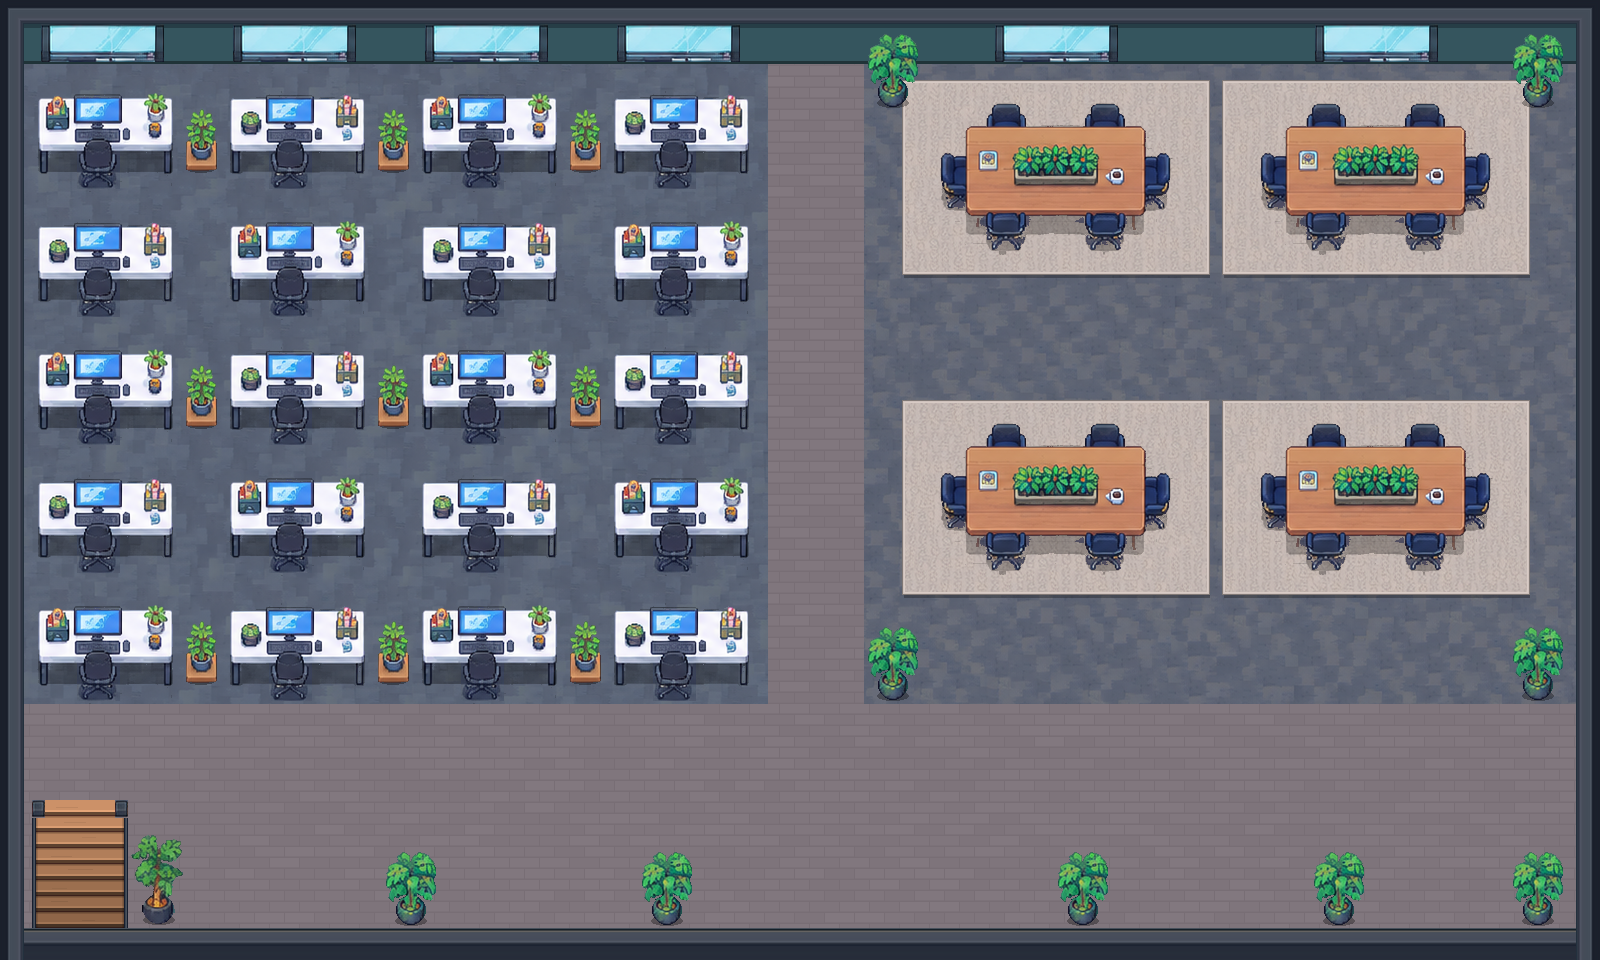
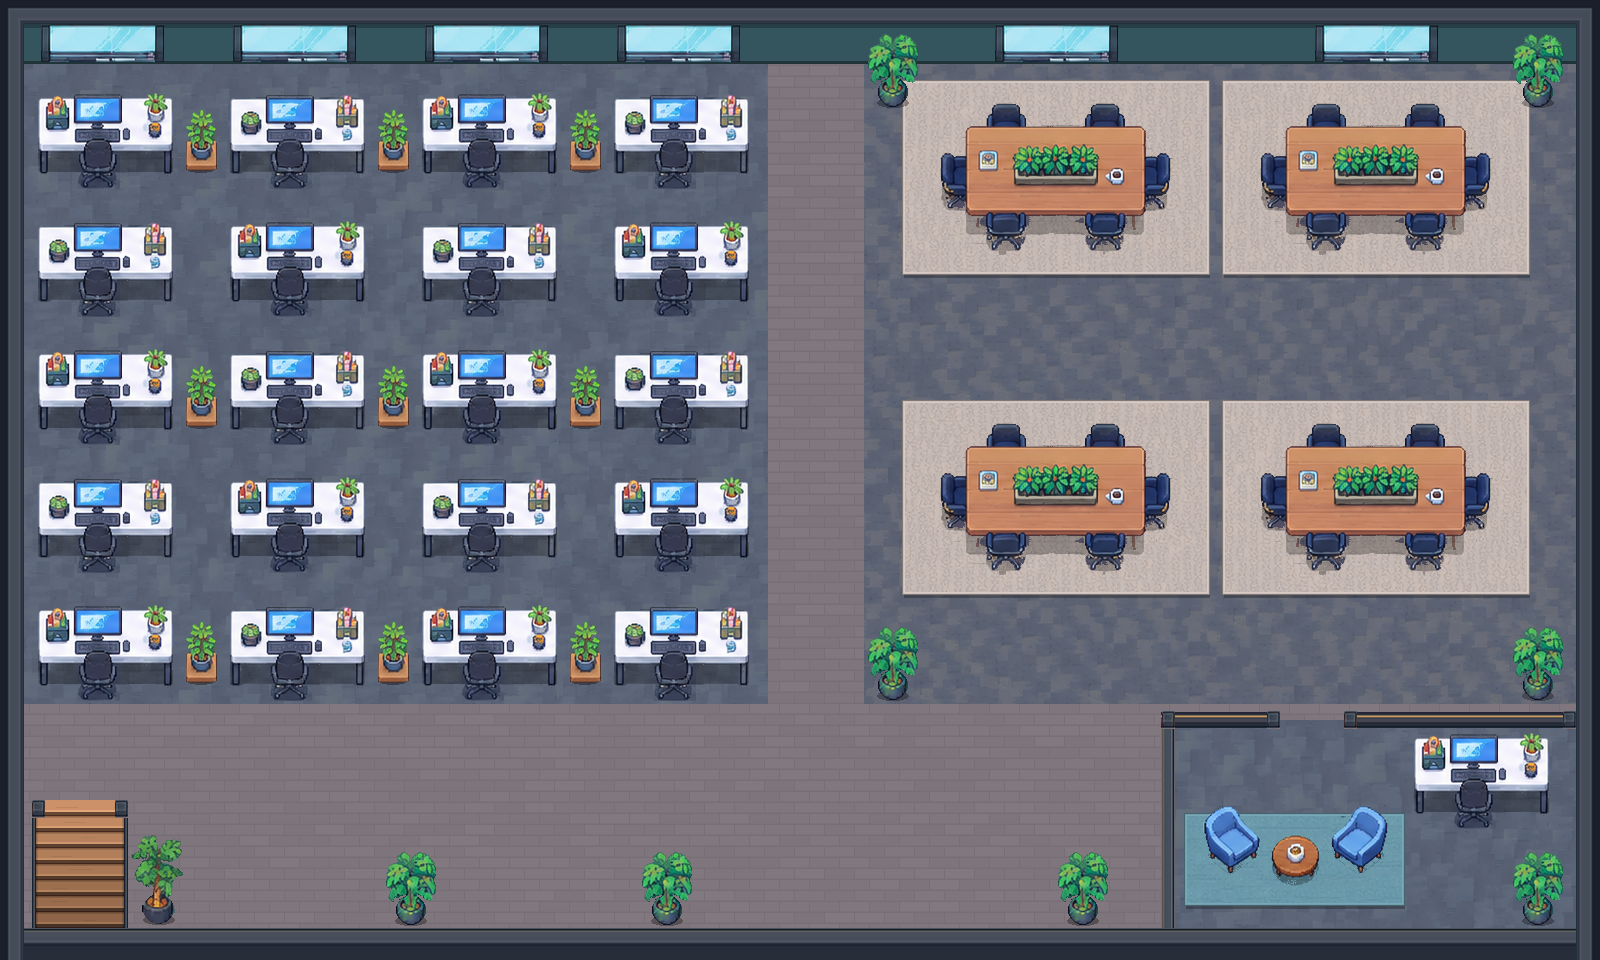
feat: a directors' room on the second floor [skip render]
In the bottom right corner of the hall (walls on row 22 and column 36, the
outer walls close it), in the style of the ground floor's: the directors'
carpet, a door in the top wall at 40..41 onto the walk under the islands,
a "Diretoria" sign on the wall left of the door, the office desk with its
chair (kind desk, not focus) at 44..48 x 23..24, the reception armchairs
and coffee table on the teal rug by the door, and a plant in the corner.
The interior (37..48 x 23..28) is the private area floor2-directors. Seat
visuals keep the ground directors' offsets. The hall plant at x 41 is
removed; the corner plant now belongs to the room.

Changed region(s): [[0.7188, 0.7188, 1.0, 0.9688]]

diff --git a/scripts/annex-art/floor2.py b/scripts/annex-art/floor2.py
@@ -18,7 +18,7 @@ from PIL import ImageDraw
 sys.dont_write_bytecode = True                  # no __pycache__ beside the scripts
 sys.path.insert(0, os.path.dirname(__file__))
 from kit import (ROOT, T, office, canvas as new_canvas, px, color, shade, cut_out,  # noqa: E402
-                 place, quilt, brick, rug, stairs, PROFILE, SOURCES, CUTS)
+                 place, quilt, brick, rug, stairs, h_wall, v_wall, PROFILE, SOURCES, CUTS, V_OFF)
 
 F = json.loads(subprocess.check_output(
     ['node', '--input-type=module', '-e',
@@ -71,10 +71,29 @@ for k, island in enumerate(F['islands']):
     ox, oy = island['ox'], island['oy']
     rug(canvas, (px(ox - 1.8), px(oy - 1.5), px(ox + 7.8), px(oy + 4.6)), 'beige_rug_clean', beige, seed=110 + k)
 
+# Directors' room: the ground directors' carpet (its clean pool) up to the centre line of its
+# walls, a brick sill in the door, and the teal rug under the armchairs and
+# coffee table, placed against them as in the ground room (scripts/annex-art/compose.py).
+HALF = T // 2
+fd = F['floor2Directors']
+LOUNGE = (fd['lounge']['dx'], fd['lounge']['dy'])
+quilt(canvas, (fd['wallX'] * T + HALF, fd['wallY'] * T + HALF, W, H), 'carpet_clean', seed=131)
+brick(canvas, (fd['door']['x1'] * T, fd['wallY'] * T, (fd['door']['x2'] + 1) * T, fd['wallY'] * T + HALF))
+lounge = [SOURCES[n] for n in ('armchair_right', 'armchair_left')]
+rug(canvas, (px(lounge[0][0] + LOUNGE[0] - 0.45), px(lounge[0][1] + LOUNGE[1] + 0.35),
+             px(lounge[1][0] + lounge[1][2] + LOUNGE[0] + 0.45), px(lounge[0][1] + LOUNGE[1] + 3.25)),
+    'teal_rug', color('teal_edge'), seed=161)
+
 # ---------------------------------------------------------------------------
 # 2. Walls: the annex outer walls on all four edges; the top wall's face has
 # windows cut from the office boardroom's glass wall.
 outer = PROFILE['outer']
+# The directors' room walls first, solid like the ground floor's private rooms;
+# the outer walls drawn next close their ends.
+v_wall(canvas, fd['wallX'], fd['wallY'] * T + HALF, last_y * T + 6, windows=False, cap_top=False, cap_bottom=False)
+h_wall(canvas, fd['wallY'], fd['wallX'] * T + V_OFF, W - len(outer),
+       [(fd['door']['x1'] * T, (fd['door']['x2'] + 1) * T)], windows=False,
+       posts=[fd['wallX'] * T + HALF], joined_start=True, joined_end=True)
 for i, c in enumerate(outer):
     draw.line((0, i, W - 1, i), fill=c)                                    # top
 face_top, face_bottom = len(outer), 2 * T - 1            # the face covers rows 0..1, both impassable
@@ -125,11 +144,19 @@ pw, ph = SOURCES['plant'][2:]
 th = SOURCES['plant_tall'][3]
 bottom = last_y - 0.08                          # against the bottom wall
 place(canvas, plant_tall, st['x2'] + 1.1, bottom - th)
-for x in (12.0, 20.0, 33.0, 41.0):
+for x in (12.0, 20.0, 33.0):
     place(canvas, plant, x, bottom - ph)
 for x in (isl_x1 + 0.05, last_x - 0.15 - pw):
     place(canvas, plant, x, 0.95)
     place(canvas, plant, x, hall_y - 0.1 - ph)
+
+# 5. Directors' room furniture: the office desk at fd['desk'] (as the focus
+# desks: tiles + (0.1, -0.15)), the reception armchairs and coffee table shifted
+# by fd['lounge'], and a plant in the bottom right corner, clear of the seats.
+place(canvas, desks['desk'], fd['desk']['x'] + SOURCES['desk'][0] - 35, fd['desk']['y'] + SOURCES['desk'][1] - 11)
+for name in ('armchair_right', 'armchair_left', 'coffee_table'):
+    sx, sy = SOURCES[name][:2]
+    place(canvas, cut_out(name), sx + LOUNGE[0], sy + LOUNGE[1])
 place(canvas, plant, last_x - 0.15 - pw, bottom - ph)
 
 canvas.convert('RGB').save(ROOT / 'frontend/public/matte-floor2.png', optimize=True)
